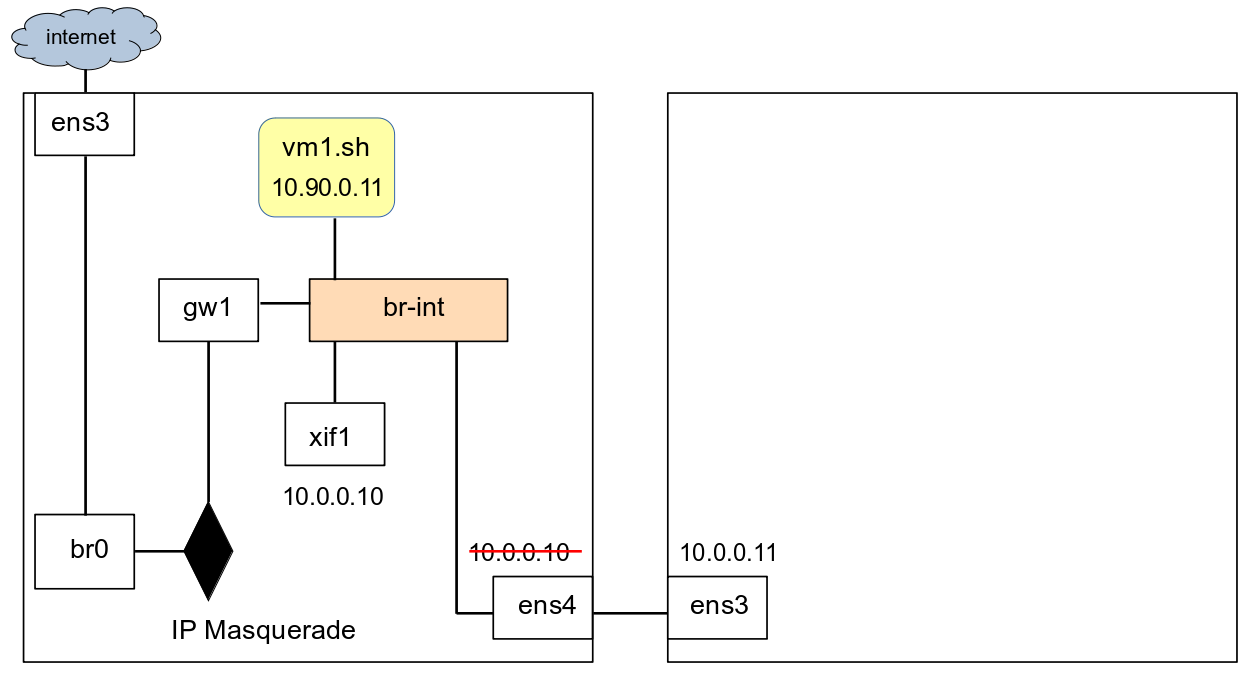
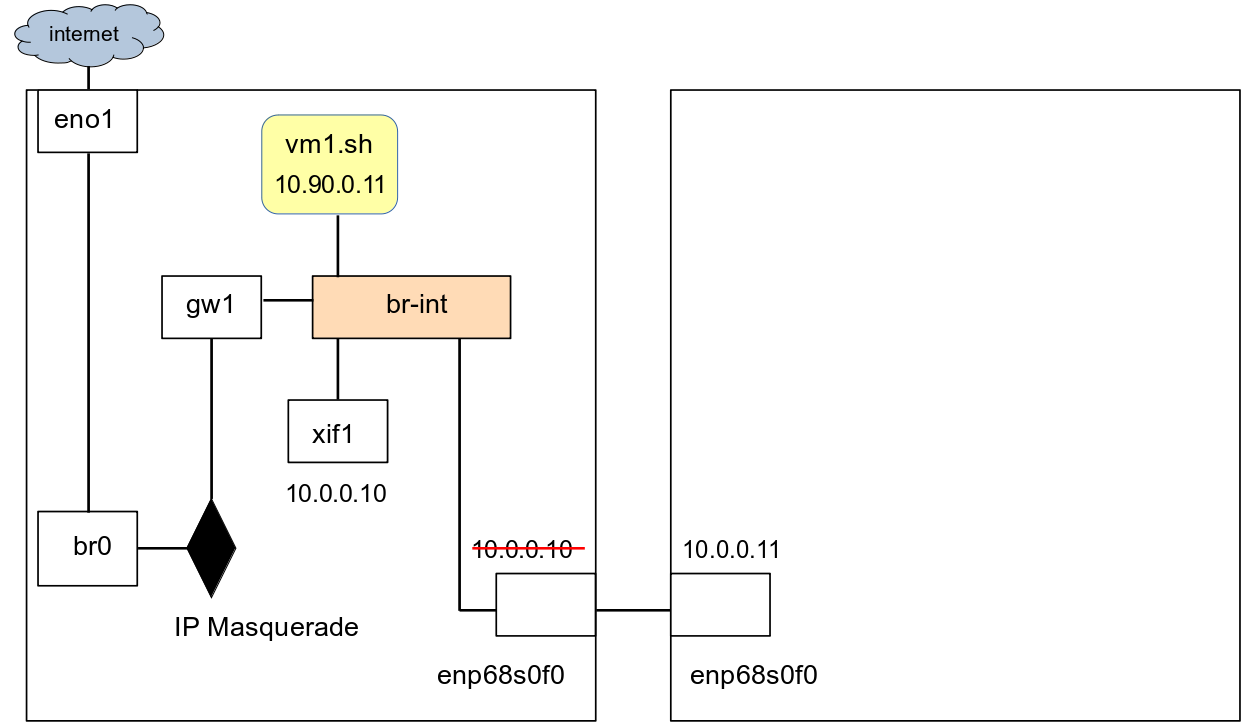
upp

Changed region(s): [[0.0, 0.0, 0.9968, 1.0], [0.5296, 0.1233, 0.9968, 0.1542], [0.1246, 0.0308, 0.1558, 0.0617]]

diff --git a/README.md b/README.md
@@ -1063,26 +1063,31 @@ $ sudo ufw enable
 <p><p>
 <a id="part5-2"><h2>5.2 การเชื่อมต่อ physical host เข้ากับ openvswitch switch เบื้องต้น </h2></a>
 <p><p>
-จากภาพที่ 7 กำหนดให้เครื่อง host1 มี ens4 เชื่อมต่อกับ ens3 ของ host2 อยู่แล้ว 
-โดยที่ ens4 มี IP address คือ 10.0.0.10 
-<pre>
-On host1: 
-$ sudo ip address add 10.0.0.10/24 dev ens4
-</pre>
-และ ens3 ของ host2 มี IP คือ 10.0.0.11 
-<pre>
-On host2: 
-$ sudo ip address add 10.0.0.11/24 dev ens3
-</pre>
 <p><p>
-  <img src="documents/ovs3.PNG" width="700" height="400"> <br>
+  <img src="documents/ch5ovs00.png" width="700" height="350"> <br>
 ภาพที่ 7
 <p><p>
-จากภาพเราจะเชื่อมต่อ ens4 เข้ากับ br-int โดยใช้คำสั่งคำสั่งต่อไปนี้
+จากภาพที่ 7 กำหนดให้เครื่อง host1 มี enp68s0f0 เชื่อมต่อกับ enp68s0f0 ของ host2 อยู่แล้ว 
+ซึ่งผู้เขียนจะใช้คำสั่งต่อไปนี้เพื่อกำหนดให้ enp68s0f0 ยนเครื่อง host1 มีค่า IP address คือ 10.0.0.10 
 <pre>
-$ 
-$ sudo ovs-vsctl add-port br-int ens4
-$ sudo ovs-vsctl show
+On host1: 
+host1$ sudo ip address add 10.0.0.10/24 dev enp68s0f0
+host1$ sudo ip link set ens68s0f0 up
+</pre>
+และ กำหนดให้ enp68s0f0 ยนเครื่อง host2 มีค่า IP address คือ 10.0.0.11 
+<pre>
+On host2: 
+host2$ sudo ip address add 10.0.0.11/24 dev ens3
+host2$ sudo ip link set ens68s0f0 up
+</pre>
+ผู้อ่านสามารถทดสอบได้ด้วยการ ping ip ทั้งสองข้ามเครื่อง
+<p><p>
+ในอันดับถัดไปผู้เขียนจะเชื่อมต่ออินเตอร์เฟส enp68s0f0 เข้ากับ br-int บนเครื่อง host1 โดยใช้คำสั่งคำสั่ง
+<pre>
+On host1: 
+host1$ 
+host1$ sudo ovs-vsctl add-port br-int enp68s0f0
+host1$ sudo ovs-vsctl show
 ...
     Bridge br-int
         Port "gw1"
@@ -1090,23 +1095,42 @@ $ sudo ovs-vsctl show
                 type: internal
         Port "tap0"
             Interface "tap0"
-        Port "ens4"
-            Interface "ens4"
+        Port enp68s0f0
+            Interface enp68s0f0
         Port br-int
             Interface br-int
                 type: internal
     ovs_version: "2.5.5"
-openstack@ubuntu:~/scripts$
-$ 
+host1$
 </pre>
-จะสังเกตุว่าเมื่อ add ens4 เข้ากับ br-int แล้ว เครื่อง host2 จะไม่สามารถ ping 10.0.0.10 ได้ 
-เนื่องจาก ens4 ได้กลายเป็น port หนึ่งของ br-int แล้วและ ping packet จะถูก forward 
+จะสังเกตุว่าเมื่อ add enp68s0f0 เข้ากับ br-int แล้ว ผู้อ่านจะไม่สามารถ ping 10.0.0.10 จากเครื่อง host2 ได้ 
+เนื่องจาก enp68s0f0 ได้กลายเป็น port หนึ่งของ br-int แล้วและ ping packet จะถูก forward 
 ไปที่ br-int แทนที่จะส่งไปให้ network stack ของเครื่อง host1 
 
 <p><p>
   <img src="documents/ch5ovs01.png" width="700" height="350"> <br>
 ภาพที่ 8
 <p><p> 
+ในภาพที่ 8 เพื่อให้ผู้อ่านสามารถส่งข้อมูลจากเครื่อง host2 ผ่าน enp68s0f0 มายังเครื่อง host1 และส่งข้อมูลจาก
+host1 มายัง host2 ได้ ผู้อ่านจะต้องใช้คำสั่งต่อไปนี้สร้าง อินเตอร์เฟสภายในขึ้นหนึ่งอินเตอร์เฟส ชื่อว่า "xif1" ขึ้นบนเครื่อง 
+host1 และเชื่อมต่อเข้ากับ br-int และกำหนดให้ xif1 มีไอพีแอดแดรสเป็น 10.0.0.10/24
+<pre>
+On host1:
+host1$ sudo ip address del 10.0.0.10/24 dev enp68s0f0
+host1$
+host1$ sudo ovs-vsctl add-port br-int xif1 -- set interface xif1 type=internal
+host1$ sudo ip address add 10.0.0.10/24 dev xif1
+host1$ sudo ifconfig xif1 up
+</pre>
+หลังจากนั้น ผู้อ่านจะสามารถ ping 10.0.0.10 จากเครื่อง host2 ได้
+<pre>
+On host2: 
+host2$ ping -c 1 10.0.0.10
+PING 10.0.0.10 (10.0.0.10) 56(84) bytes of data.
+64 bytes from 10.0.0.10: icmp_seq=1 ttl=64 time=0.745 ms
+...
+host2$
+</pre>
 <!--
 <p><p>
   <img src="documents/ovs5.PNG" width="700" height="400"> <br>
